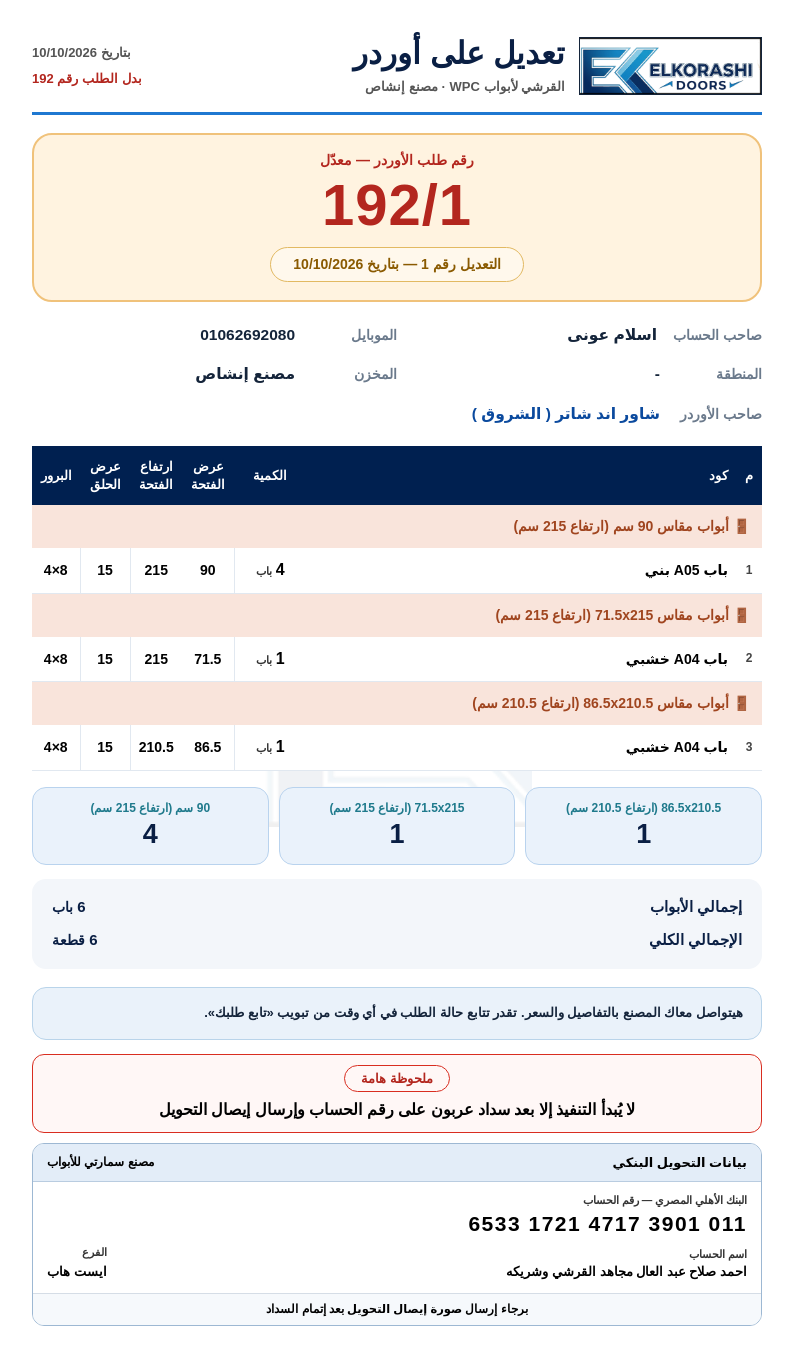
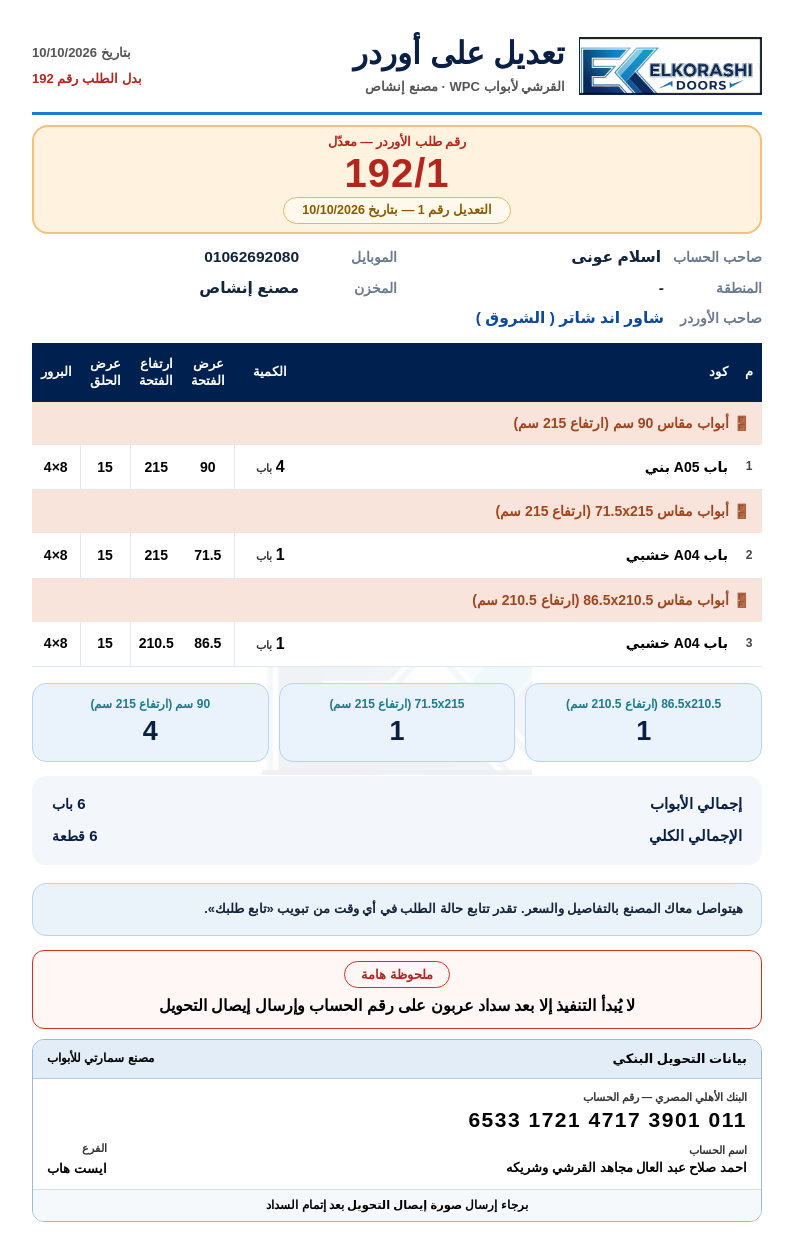
Add files via upload

diff --git a/index.html b/index.html
@@ -8801,7 +8801,7 @@ function docHTML(o,mode,priced){
         const topDate = edited ? editDate : dateStrDMY_(o.ts);
         const pill = edited ? `التعديل رقم ${esc(o.editCount)} — بتاريخ ${esc(editDate)}`
                    : (isQuote && o.priceTierLabel ? esc(o.priceTierLabel) : '');
-        const cell = (lbl, valHTML, full) => `<div style="width:${full?'100':'50'}%;display:flex;align-items:baseline;gap:16px;box-sizing:border-box;padding-inline-end:10px">
+        const cell = (lbl, valHTML, full) => `<div style="width:${full?'100':'50'}%;display:flex;align-items:baseline;gap:12px;box-sizing:border-box;padding-inline-end:10px">
             <span style="color:#6B7A8C;font-size:14px;min-width:86px">${lbl}</span><b style="font-size:15.5px;color:#14243A">${valHTML}</b></div>`;
         const dash = v => (v && String(v).trim()) ? esc(v) : '-';
         return `
@@ -8817,13 +8817,13 @@ function docHTML(o,mode,priced){
         </div>
       </div>
 
-      <div style="margin-top:18px;background:#FFF3E0;border:2px solid #F0C27B;border-radius:20px;padding:14px 20px 18px;text-align:center">
-        <div style="font-size:14px;font-weight:800;color:#B3261E">${label}</div>
-        <div dir="ltr" style="font-size:58px;font-weight:900;color:#B3261E;line-height:1.15;letter-spacing:1px">${num}</div>
-        ${pill?`<div style="display:inline-block;margin-top:8px;padding:5px 22px;border:1.5px solid #E2B962;border-radius:30px;background:#FFF8EC;color:#8A5A00;font-weight:800;font-size:14px">${pill}</div>`:''}
+      <div style="margin-top:10px;background:#FFF3E0;border:2px solid #F0C27B;border-radius:16px;padding:5px 16px 8px;text-align:center">
+        <div style="font-size:12.5px;font-weight:800;color:#B3261E">${label}</div>
+        <div dir="ltr" style="font-size:40px;font-weight:900;color:#B3261E;line-height:1.05;letter-spacing:1px">${num}</div>
+        ${pill?`<div style="display:inline-block;margin-top:3px;padding:2px 18px;border:1.5px solid #E2B962;border-radius:30px;background:#FFF8EC;color:#8A5A00;font-weight:800;font-size:12.5px">${pill}</div>`:''}
       </div>
 
-      <div style="margin-top:20px;display:flex;flex-wrap:wrap;row-gap:14px">
+      <div style="margin-top:10px;display:flex;flex-wrap:wrap;row-gap:5px">
         ${cell('صاحب الحساب', dash(o.name))}
         ${cell('الموبايل', o.phone?`<span dir="ltr">${esc(o.phone)}</span>`:'-')}
         ${cell('المنطقة', dash(o.region))}
@@ -8837,7 +8837,7 @@ function docHTML(o,mode,priced){
         <span style="display:block;font-size:11.5px;font-weight:700;color:#444;margin-bottom:2px">ملاحظات عامة على الأوردر</span>
         ${esc(o.note)}</div>`:''}
 
-      <div style="margin-top:20px;overflow:hidden">
+      <div style="margin-top:12px;overflow:hidden">
       <table style="width:100%;border-collapse:collapse;font-size:12px">
         <thead>
           <tr style="background:#002050;color:#fff;font-family:Arial,'Helvetica Neue',sans-serif;font-size:13px">
